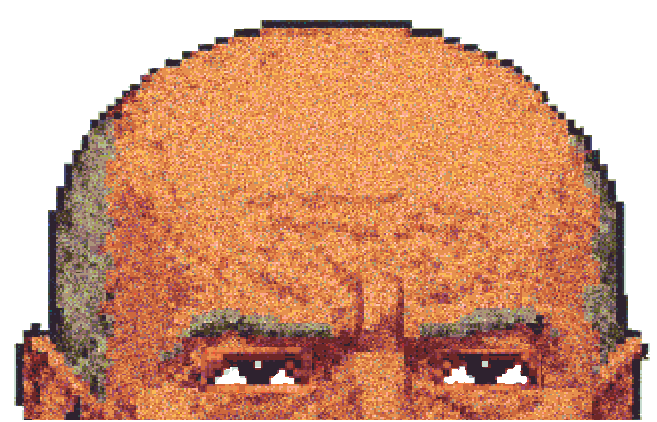
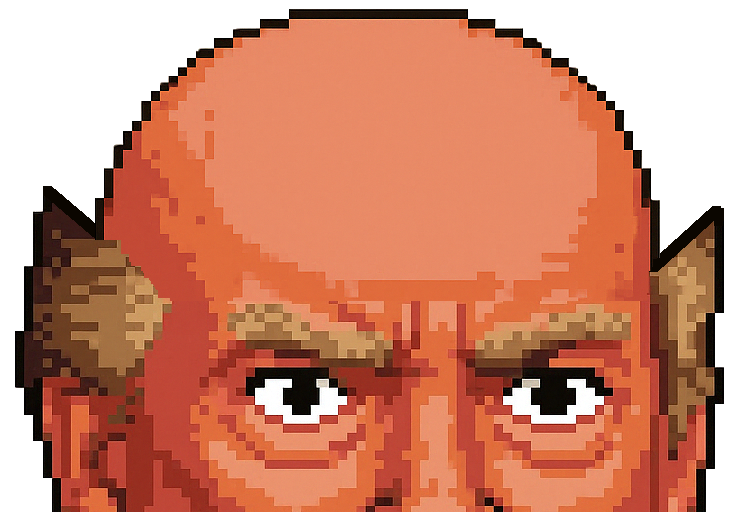
Added plank graphics and new bald.png

diff --git a/src/scenes/GameScene.js b/src/scenes/GameScene.js
@@ -48,7 +48,7 @@ export class GameScene extends Scene {
 
         // Add the 'bald' image at the bottom center of the screen
         this.baldImage = this.add
-            .image(width / 2, height + 5, 'bald')
+            .image(width / 2, height + 40, 'bald')
             .setOrigin(0.5, 1) // Center the image horizontally, bottom vertically
             .setScale(this.baldScale); // Scale the image
 
@@ -56,7 +56,7 @@ export class GameScene extends Scene {
         this.tweens.add({
             targets: this.baldImage,
             //x: () => Phaser.Math.FloatBetween(width / 2 - 10, width / 2 + 10), // Move slightly up and down
-            y: () => Phaser.Math.FloatBetween(height + 5, height + 15), // Move slightly up and down
+            y: () => Phaser.Math.FloatBetween(height + 60, height + 30), // Move slightly up and down
             rotation: () => Phaser.Math.FloatBetween(-0.06, 0.06), // Rotate slightly
             duration: 1500, // Duration of the tween
             yoyo: true, // Make it go back and forth
@@ -77,16 +77,14 @@ export class GameScene extends Scene {
         });
 
         // Create the see-saw platform
-        this.platform = this.matter.add.tileSprite(
+        this.platform = this.matter.add.image(
             width / 2,
             height / 2,
-            700,
-            20,
             'plank',
             null,
             {
-                isStatic: false,
                 inertia: 10000,
+                shape: { type: 'rectangle', width: 700, height: 15 },
                 friction: this.platformFriction,
                 frictionStatic: this.platformFrictionStatic,
                 restitution: 0.8,

diff --git a/src/scenes/Preloader.js b/src/scenes/Preloader.js
@@ -40,6 +40,7 @@ export class Preloader extends Scene {
         this.load.image('background2', 'background2.png');
         this.load.image('distort', 'noiseTexture.png');
         this.load.image('bald', 'bald.png');
+        this.load.image('plank', 'plank.png');
     }
 
     create() {
